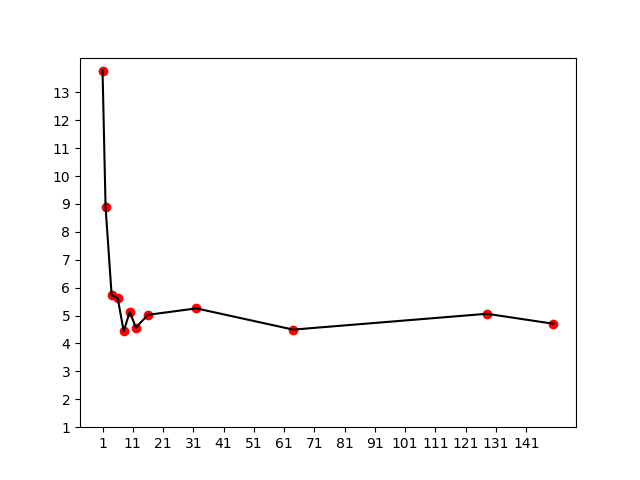
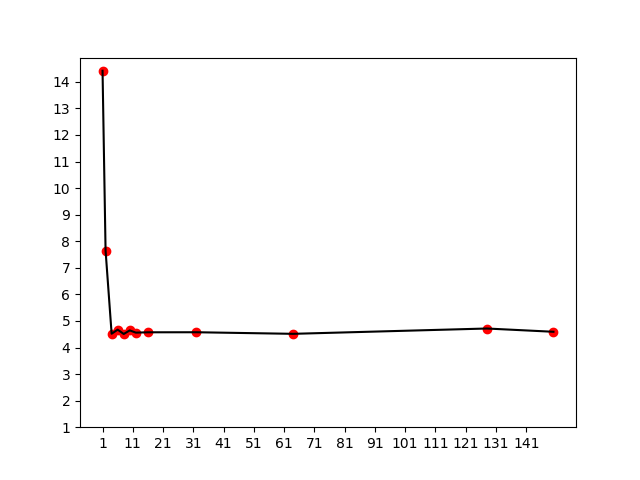
minor changes

diff --git a/gd.cpp b/gd.cpp
@@ -8,7 +8,7 @@
 using namespace std;
 
 //Variables for obtaining line of best fit
-double b[4][10530]={};
+double b[4][10530]={0.0};
 //Swapping function
 void swap(double *xp, double *yp) 
 { 
@@ -37,12 +37,12 @@ void train(double *x1,double *x2,double *x3,double *y)
     int i,idx;double error[10530]; // for storing the error values
     //Since there are 351 values in our dataset and we want to run for 50 batches so total for loop run 17550 times
     double err[10530]={0};          // for calculating error on each stage
-    double alpha = 0.01; // initializing our learning rate
+    double alpha = 0.001; // initializing our learning rate
     double e = 2.718281828;
-    double p[10530]={0},pred[10530]={0.5};
+    double p[10530]={0},pred[10530]={0};int j=0;
 
     start=omp_get_wtime();
-    #pragma omp parallel for 
+    #pragma omp parallel for private(idx) shared(x1,x2,x3)
     for (i = 0; i < 10530; i++) 
     {   
         idx = i % 10;//for accessing index after every batch
@@ -63,8 +63,8 @@ void train(double *x1,double *x2,double *x3,double *y)
     //custom sort based on absolute error difference
     end=omp_get_wtime();
     //Time Taken
-    cout<<"Time- "<<end-start<<endl;   
-    cout << "Final Values are: " << "\tB0=" << b[0][10529] << " " << "\tB1=" << b[1][10529] << " " << "\tB2=" << b[2][10529] << "\tB3=" << b[3][10529] <<"\tMinimum Error=" << abs(error[0])<<endl;
+    cout<<end-start<<endl;   
+    //cout << "Final Values are: " << "\tB0=" << b[0][10529] << " " << "\tB1=" << b[1][10529] << " " << "\tB2=" << b[2][10529] << "\tB3=" << b[3][10529] <<"\tMinimum Error=" << abs(error[0])<<endl;
 }
 
 //Testing the trained Stochastic Model
@@ -85,7 +85,7 @@ void test(double test1, double test2, double test3)
         pred = 0;
         ch='b';
     }
-    cout << "The class predicted by the model= " << ch<<endl;
+    //cout << "The class predicted by the model= " << ch<<endl;
 }
 
 int main() 
